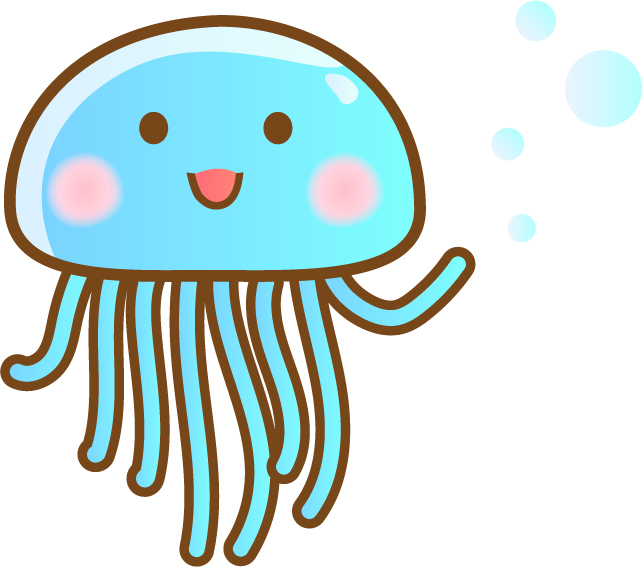
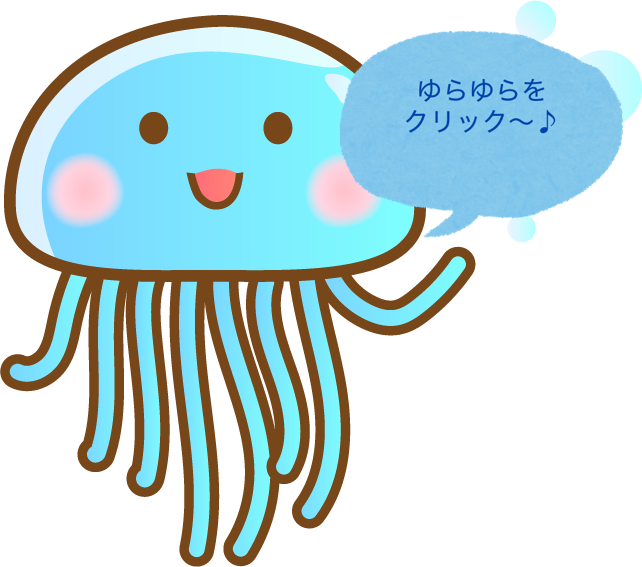
大幅な改修

Changed region(s): [[0.5296, 0.03, 0.9969, 0.4198]]

diff --git a/findwords.html b/findwords.html
@@ -3,11 +3,13 @@
 
 <head>
   <meta charset="UTF-8">
+  <meta name="viewport" content="width=device-width, initial-scale=1.0" />
   <title>ゆらゆらのメッセージ</title>
 </head>
 
 <body>
   <link rel="stylesheet" href="findWords.css">
+ 
   <header>
     <h1>ゆらゆらが海の底からあなたへのメッセージを拾ってくるゆら〜</h1>
     <h2>
@@ -15,12 +17,15 @@
   </header>
 
   <main>
-    <div id="yurayura"><img src="./img/9014.png" class="anime" alt="ゆらゆらの画像" />
-      <div id="fukidashi"><img src="./img/fukidashi03.png" class="anime" alt="吹き出し" /></div></div>
+    <div class="grid">
+      <div id="yurayura"><img src="./img/9014.png" class="anime" alt="ゆらゆらの画像" /></div>
+      <div id="message">ゆらゆらは海の中でゆらゆらしているよ〜</div>
+      <script src="findWords.js"></script>
+      <p>
+      <div id="result"></div>
+      <img id= "test" src="" class="shellfish"/>
+      </p>
     </div>
-
-    <div id="message">ゆらゆらは海の中でゆらゆらしているよ〜</div>
-    <script src="findWords.js"></script>
   </main>
 </body>
 

diff --git a/findWords.css b/findWords.css
@@ -8,30 +8,40 @@ body {
   padding: 1em;
   margin:0;
 }
-div#yurayura {
-    position: relative;
-    padding : 1em;
-    width: 50%;
-    float: left;
-}
 img{
   width: 100%;
+  }
+
+.grid {
+  display: grid;
+  grid-template:
+   "yurayura message" 50px
+   "yurayura result"  1fr /
+    1fr 1fr;
 }
-div#fukidashi{
- width :30%;
- height: 30%;
- display: flex;
- top:10%;
- left:50%;
- position: absolute;
+
+ div#urayura {
+  grid-area: yurayura;
 }
 
 div#message {
-  background-color:blue;
-  padding: 1em;
-  position: absolute;
-  display: inline;
+  grid-area: message;
   font-size: larger;
+  text-align: center;
+}
+.shellfish{
+  grid-area: result;
+  z-index: 10;
+}
+div#result{
+  padding: 5%;  
+  color: blue;
+  font-size: 3vmax;
+  grid-area:result;
+  z-index: 20;
+  justify-self: center;
+	align-self: center;
+  text-align: center;
 }
 
 .anime {
@@ -48,4 +58,5 @@ div#message {
   100%{
     transform:translate(0,-15px);
   }
+
 }

diff --git a/findWords.js b/findWords.js
@@ -46,5 +46,10 @@ document.getElementById("yurayura").onclick = function () {
   };
   let result = answers[seconds];
   document.getElementById("message").innerHTML
-    = `拾ってきたよ〜どうかなぁ？<br><br>${result}`;
+    = `拾ってきたよ〜何度でもクリックしてね〜`;
+  
+  document.getElementById("test").src ="./img/kai.png";
+  
+  document.getElementById("result").innerHTML
+    =`${result}`;
 }
